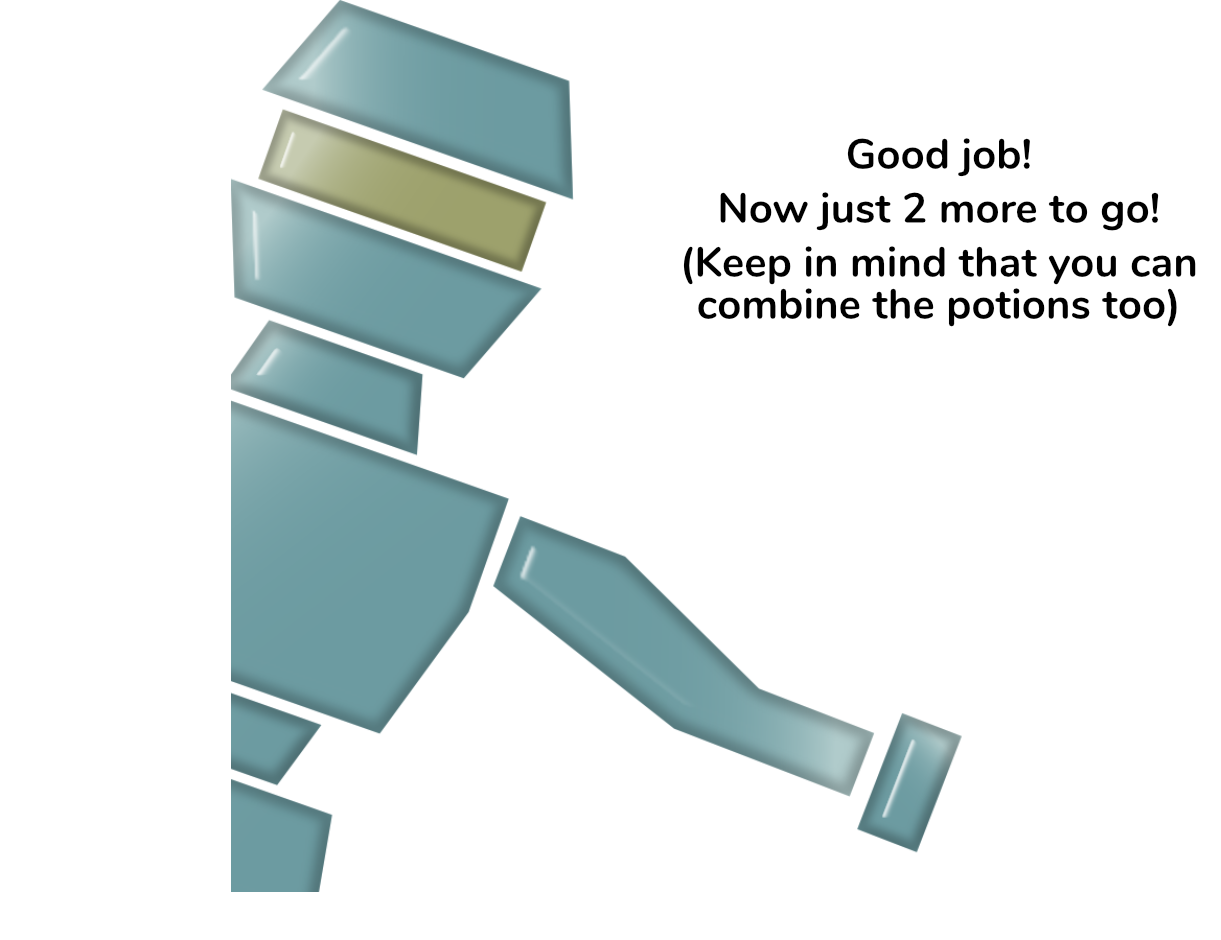
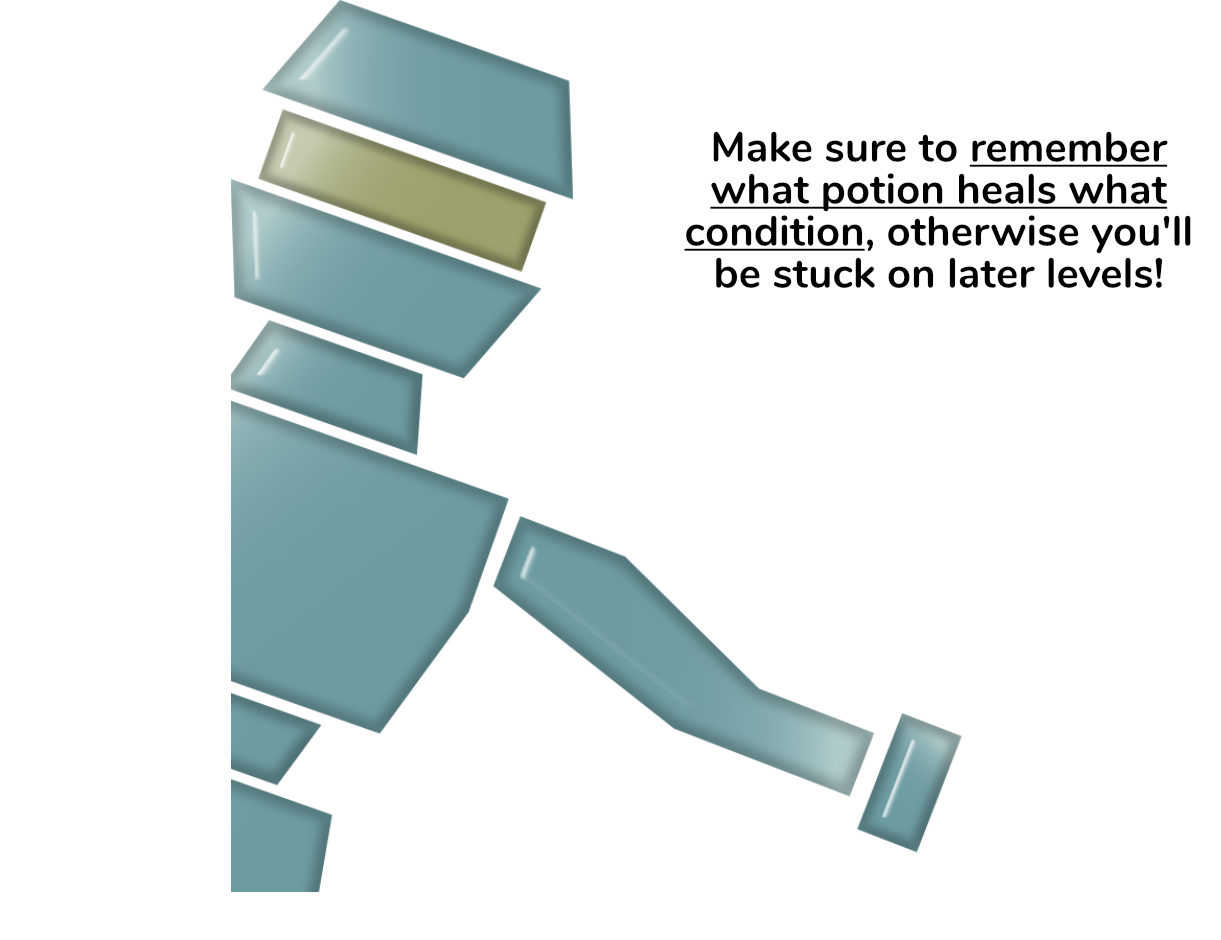
tut update + music toggle

Changed region(s): [[0.5602, 0.1234, 0.9959, 0.3394]]

diff --git a/Assets/Script/music_toggle.cs b/Assets/Script/music_toggle.cs
@@ -8,7 +8,6 @@ public class music_toggle : MonoBehaviour
     // Start is called before the first frame update
     private Button yourButton;
     public static bool music_togg;
-    public GameObject musto;
     void Start()
     {
         music_togg = true;
@@ -20,12 +19,12 @@ public class music_toggle : MonoBehaviour
     {
         if (music_togg)
         {
-            musto.GetComponent<persistors>().MusicOff();
+            GameObject.Find("Staticc").GetComponent<persistors>().MusicOff();
             transform.GetComponent<Image>().sprite = Resources.Load<Sprite>("Images/musictoggle_off");
         }
         else
         {
-            musto.GetComponent<persistors>().MusicOn();
+            GameObject.Find("Staticc").GetComponent<persistors>().MusicOn();
             transform.GetComponent<Image>().sprite = Resources.Load<Sprite>("Images/musictoggle_on");
         }
         music_togg = !music_togg;

diff --git a/Assets/Script/tutorial.cs b/Assets/Script/tutorial.cs
@@ -72,6 +72,9 @@ public class tutorial : MonoBehaviour
                 break;
             case 15:
                 simple(2);
+                break;
+            case 16:
+                simple(2);
                 //PlayerPrefs.SetInt("Tut", 1);
                 tg.SetActive(false);
                 break;
@@ -90,7 +93,7 @@ public class tutorial : MonoBehaviour
 
     public void Advance()
     {
-        if(farth < 15)
+        if(farth < 16)
         {
             part1();
         }
